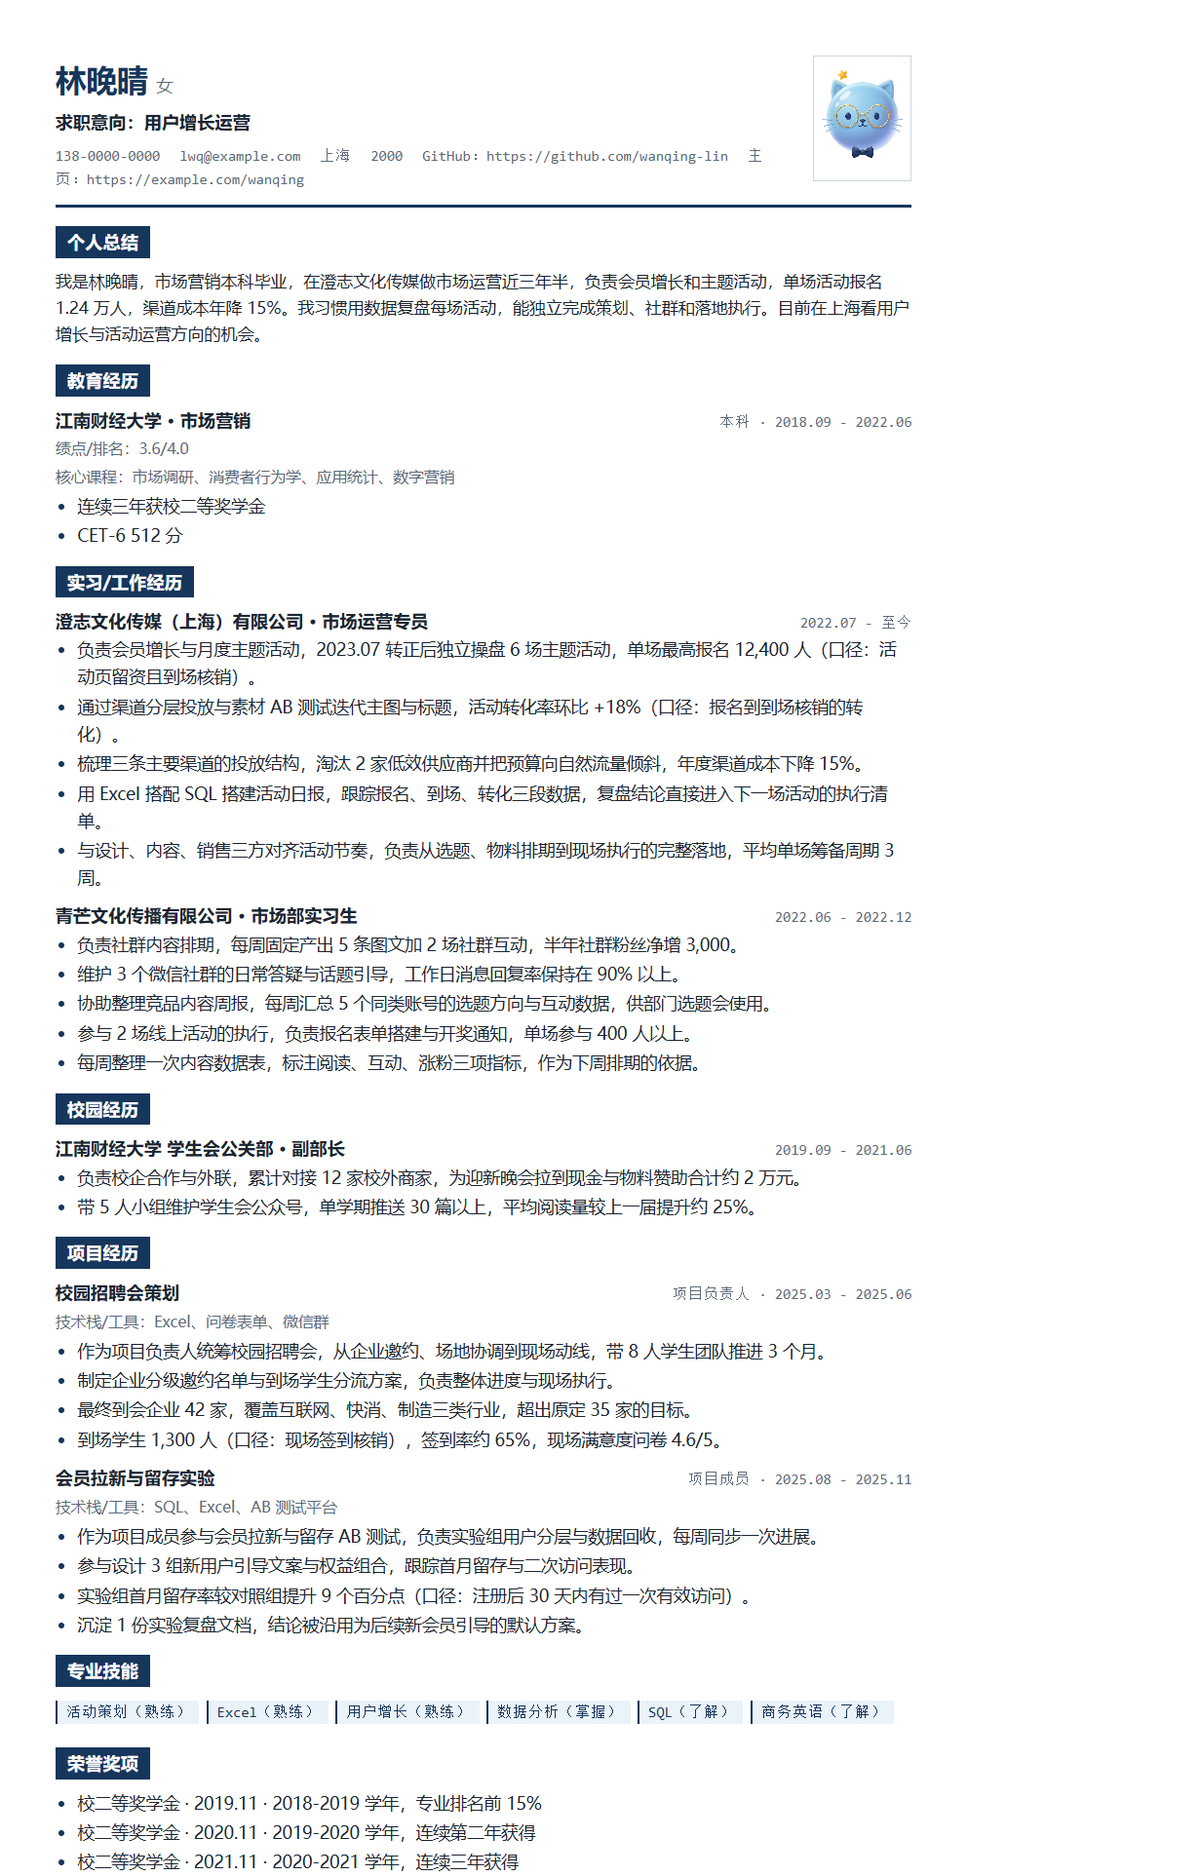
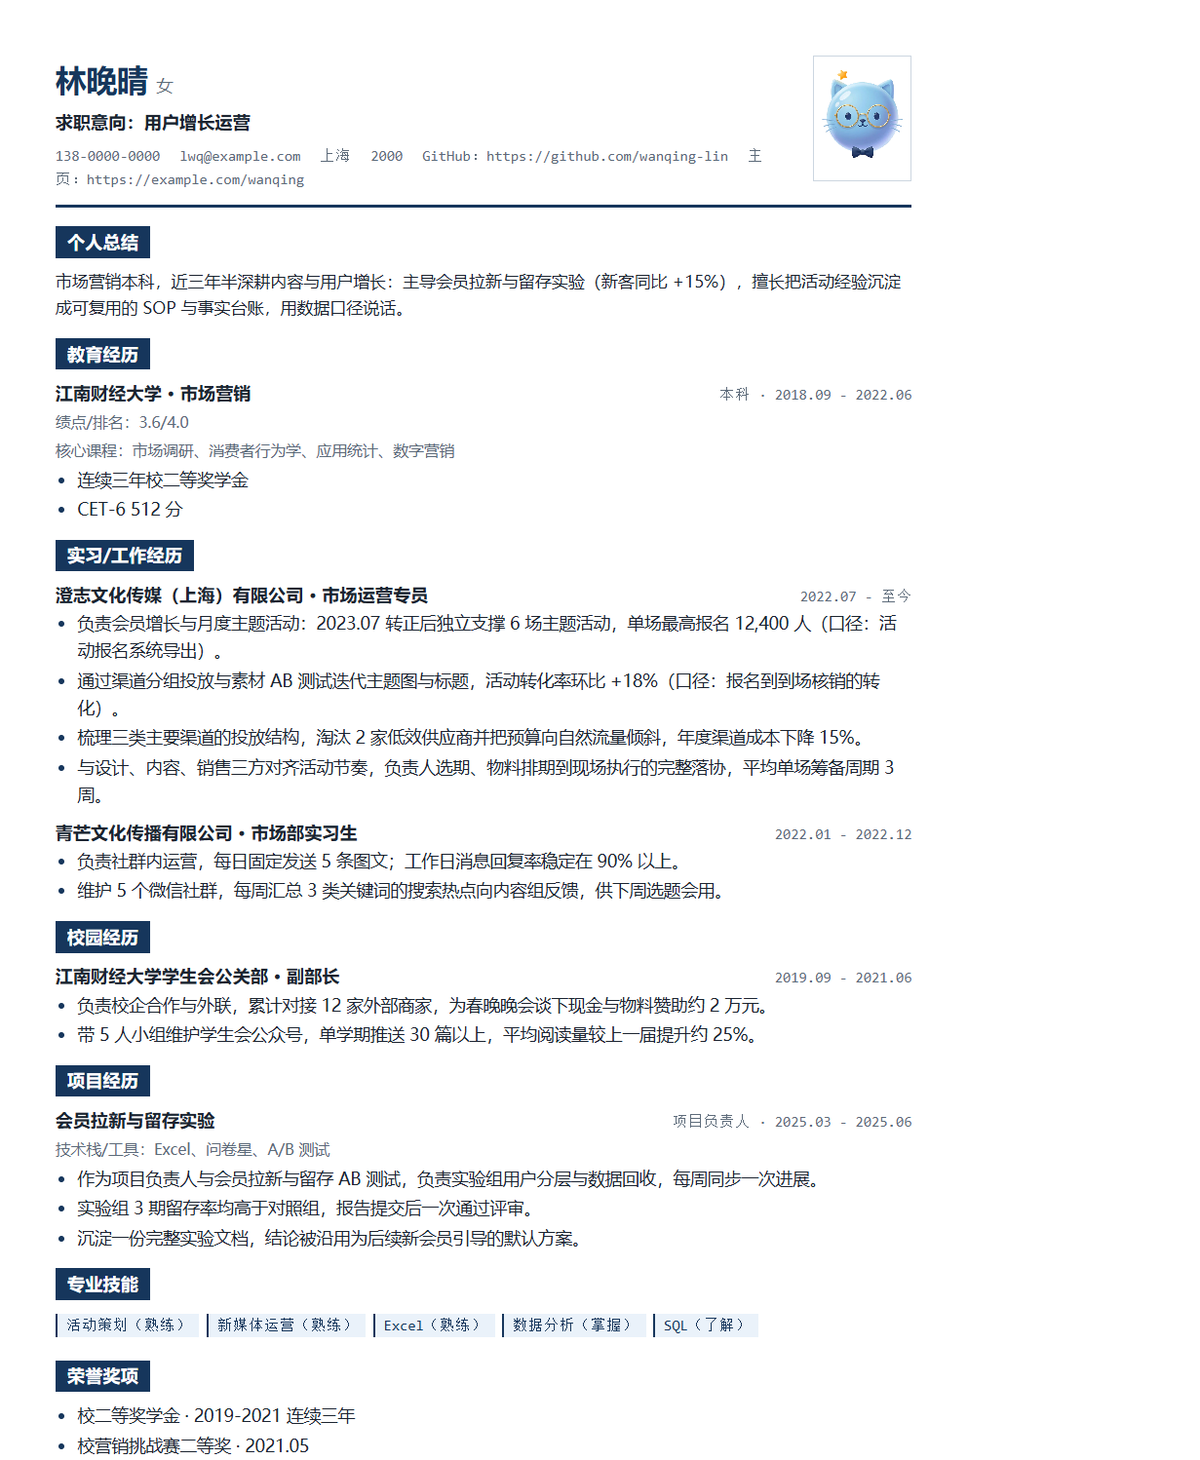
docs: A4 成品改为一页版式、匹配度分析补真实结论、界面速览精简折叠
- 简历 1 内容精简为单页 A4（经历/项目/奖项收敛），resume-a4.png 重拍
- crop-job-match.png 换成真实 AI 匹配分析结果（五类结论 + 招聘原文 + 依据 + 准入提示，分析模型 qwen-max）
- crop-ai-resume-options.png 更新（当前模型 qwen-max）
- 界面速览收敛直显图片数量：全局搜索动图、助手动图、导出面板、匹配动图移入「更多界面」折叠区
- SECURITY.md 新增 Windows 桌面安装版安全章节（数据目录、更新器校验、0.18.0 升级数据抢救、交付存档指纹）

diff --git a/README.md b/README.md
@@ -95,7 +95,7 @@
 **AI 是按岗位生成的，不是套模板**。挑一个岗位，定美化档位、篇幅与模板；生成时会从你的资料与经历总结里按 JD 筛选排序，**原始资料不会被修改**：
 
 <p align="center">
-  <img src="docs/images/crop-ai-resume-options.png" alt="为「用户增长运营」生成简历的弹窗：当前模型 deepseek-flash、岗位适配与内容美化档位（轻度 / 均衡 / 深度）、篇幅与版式、字号与补充要求" width="900">
+  <img src="docs/images/crop-ai-resume-options.png" alt="为「用户增长运营」生成简历的弹窗：当前模型 qwen-max、岗位适配与内容美化档位（轻度 / 均衡 / 深度）、篇幅与版式、字号与补充要求" width="900">
 </p>
 
 生成完它会自动做两件事。一是**版面诊断**：下面这张图里内容超出所选页数（占用 154%），它直接给出按优先级排好的收紧顺序与一键「自动一页」。二是**来源与核对**：每个区块标注「回填原文 / 资料原文」，生成结果可以逐段溯源到你的资料库——模型编出来的东西不会悄悄留在简历里：
@@ -104,16 +104,10 @@
   <img src="docs/images/crop-ai-resume-result.png" alt="AI 生成简历的预览弹窗：版面诊断提示内容超出所选页数（占用 154%）并给出五步收紧顺序与「自动一页」；内容来源说明逐区块标注回填原文与资料原文；底部提供 AI 修改、质量检测、导出选项、一键脱敏等操作" width="900">
 </p>
 
-**AI 定制简历的 A4 成品**（服务端用系统中文字体渲染，PDF 可直接下载，也可以走浏览器打印）：
+**AI 定制简历的 A4 成品**（服务端用系统中文字体渲染，一页排版，PDF 可直接下载，也可以走浏览器打印）：
 
 <p align="center">
   <img src="docs/images/resume-a4.png" alt="A4 简历成品：页眉带形象照，单页版式、区块标题带强调色、技能标签带框" width="600">
-</p>
-
-**一个框搜遍全站**：岗位、简历、内推、提醒、面经、事实台账、资料箱与助手技能一起搜，不用先想「这东西在哪个模块」：
-
-<p align="center">
-  <img src="docs/images/anim-search.webp" alt="在首页全局搜索框输入「用户增长」，同时列出匹配的岗位、简历、内推、提醒、面经、资料箱与助手技能" width="880">
 </p>
 
 **岗位广场**：手动录入、粘贴原文、贴截图、传 pdf/docx 都能识别成可编辑草稿；技能标签保存时自动提取：
@@ -129,13 +123,7 @@
 </p>
 
 <p align="center">
-  <img src="docs/images/crop-job-match.png" alt="岗位匹配度分析结果：逐条给出已匹配 / 表达缺口 / 证据不足等结论、招聘原文与依据，底部为投递建议" width="900">
-</p>
-
-**助手会先查你的库再回答**——台账里的主张、面经、面试深挖记录都查得到，而且**未经你同意不改任何数据**：
-
-<p align="center">
-  <img src="docs/images/anim-assistant.webp" alt="在求职助手里问「我这份简历里，哪条说法最容易被面试官追问？」，助手逐字流式回答并引用事实台账、面经与面试深挖记录" width="880">
+  <img src="docs/images/crop-job-match.png" alt="岗位匹配度分析结果：准入结论「需确认」、硬性门槛「硬性条件已满足」，硬性条件与核心能力逐条给出已匹配 / 证据不足等结论、招聘原文与依据，顶部提示含待确认条目时加入投递台需逐条确认" width="900">
 </p>
 
 <table>
@@ -157,11 +145,7 @@
 </tr>
 </table>
 
-**导出与脱敏**：PDF / Word / Markdown / 纯文本 / JSON / HTML 任选，可加水印；一键脱敏遮住姓名、电话、邮箱、公司与学校后再导出：
-
-<p align="center">
-  <img src="docs/images/crop-resume-export.png" alt="简历预览的导出选项面板：六种格式多选、自定义水印、一键隐私脱敏" width="900">
-</p>
+**导出与脱敏**：PDF / Word / Markdown / 纯文本 / JSON / HTML 任选，可加水印；一键脱敏遮住姓名、电话、邮箱、公司与学校后再导出（面板见下方折叠区）。
 
 **投递台操作动图**——勾选岗位 → 点「开始投递」→ 确认本批次范围。**在你点下去之前，它不会打开任何招聘网站**：
 
@@ -176,9 +160,33 @@
 </p>
 
 <details>
-<summary><b>更多界面</b>（点击展开：简历预览、资料箱、知识库、工作台、回收站、内置指南）</summary>
+<summary><b>更多界面</b>（点击展开：全局搜索、求职助手、导出面板、简历预览、资料箱、知识库、工作台、回收站、内置指南与更多细节图）</summary>
 
 <br>
+
+**一个框搜遍全站**：岗位、简历、内推、提醒、面经、事实台账、资料箱与助手技能一起搜，不用先想「这东西在哪个模块」：
+
+<p align="center">
+  <img src="docs/images/anim-search.webp" alt="在首页全局搜索框输入「用户增长」，同时列出匹配的岗位、简历、内推、提醒、面经、资料箱与助手技能" width="880">
+</p>
+
+**助手会先查你的库再回答**——台账里的主张、面经、面试深挖记录都查得到，而且**未经你同意不改任何数据**：
+
+<p align="center">
+  <img src="docs/images/anim-assistant.webp" alt="在求职助手里问「我这份简历里，哪条说法最容易被面试官追问？」，助手逐字流式回答并引用事实台账、面经与面试深挖记录" width="880">
+</p>
+
+**导出选项面板**：
+
+<p align="center">
+  <img src="docs/images/crop-resume-export.png" alt="简历预览的导出选项面板：六种格式多选、自定义水印、一键隐私脱敏" width="880">
+</p>
+
+**匹配度分析动图**（从打开抽屉到逐条结论与参考分）：
+
+<p align="center">
+  <img src="docs/images/anim-match.webp" alt="打开岗位详情抽屉、滚动查看匹配度结论并打开匹配度分析弹窗" width="880">
+</p>
 
 <table>
 <tr>
